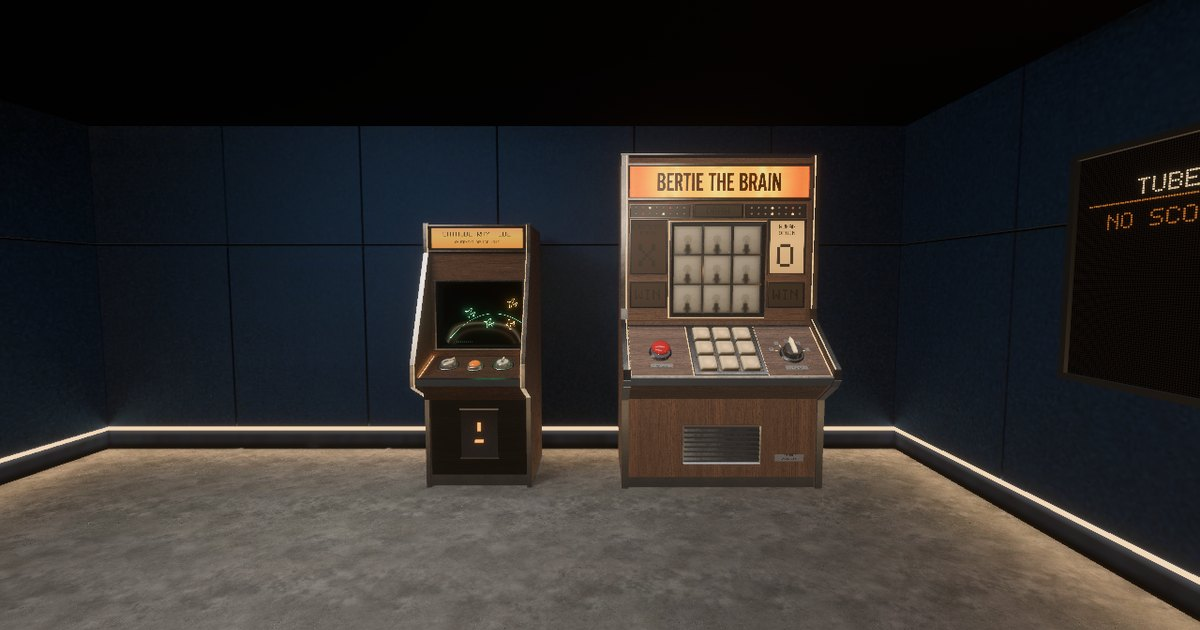
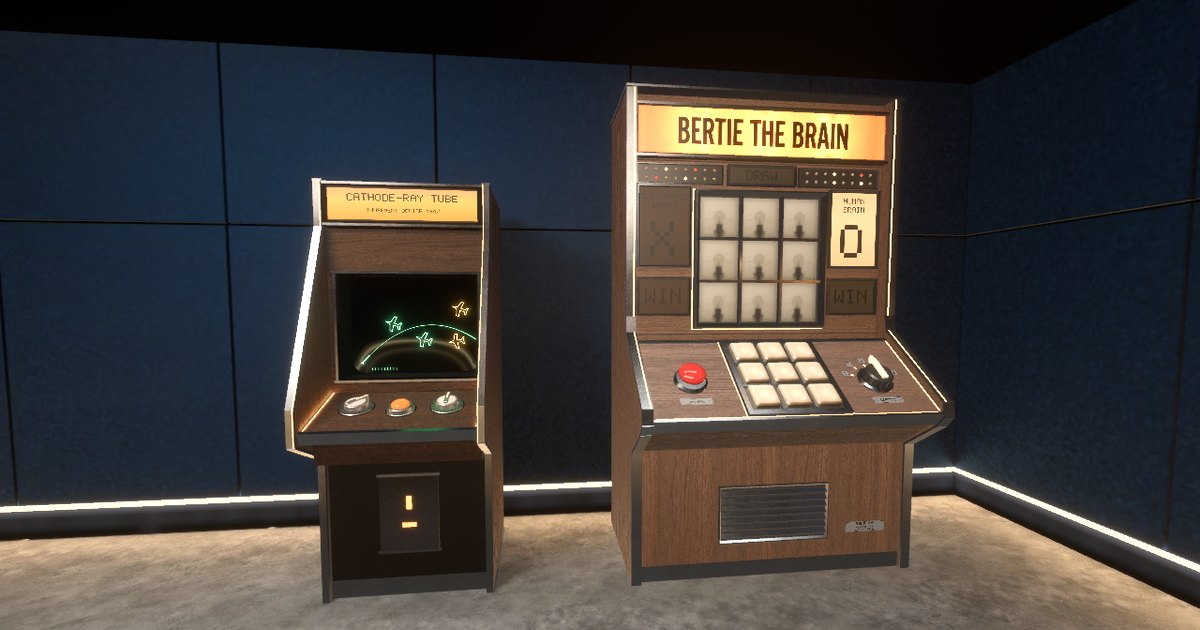
Arcade: document high scores; reframed card

diff --git a/demos/_src/arcade-bevy/README.md b/demos/_src/arcade-bevy/README.md
@@ -66,6 +66,13 @@ The game finds these parts by name and gives them behaviour in `src/cabinet.rs`:
 The room's light is baked in Blender with Cycles: two lightmaps on a second UV set, two occlusion maps, and a small cube picture of the room (`assets/env.bin`, compiled into the game) that steel, glass and the floor reflect. The only live lights are the tube's and one spot for sheen. `LOOK_NOTES.md` has the method, commands and timings.
 `src/room.rs` mends one line of a Bevy 0.20.1 shader at startup: without it, lightmaps and the reflection together fail to compile on WebGL2.
 
+## High scores
+
+Each game keeps a table of its best seven. `worker.js` is the site's Worker: it serves the built site and answers `/api/scores` (GET the tables, POST `{ game, name, score }`), keeping one KV key per game. `score_rules.js` holds the rules (names are up to eight capitals and digits; a game's highest allowed score), and `node --test worker.test.mjs` tests them.
+When a game ends, it hands its score to the page (`pad::score`). If the score makes the table, the page asks for a name once and remembers it for next time. The page also hands the tables back to the game, and `src/scores.rs` spells them out on a board of amber lamps on the right-hand wall.
+The tube's score is its hits in a game. Bertie's is a run of wins: each win adds the level of difficulty it was won at (1 to 5), and a loss, a draw or walking away ends the run.
+Nothing checks that a score was really played; the game runs in the visitor's browser.
+
 ## Controls that clunk
 
 The game puts no words on the screen. The score is marks on the tube: a tick per shell left, a pip per wave cleared. The page shows key prompts and touch buttons.

diff --git a/demos/_src/arcade-bevy/PROCESS.md b/demos/_src/arcade-bevy/PROCESS.md
@@ -86,6 +86,8 @@ The page plays recorded files. The game only says what happened.
 
 ## 8. Wire it into the room
 
+- Every machine has a high score. Decide what a score is in step 1 (the game exposes `take_ended()`); the engine side hands it over with `pad::score`. Add the game to `GAMES` in `score_rules.js` with its highest allowed score, and give it a column on the board in `src/scores.rs`.
+- The machine's root carries a `player::Machine`: its seat, how much width must stay in view, and its footprint.
 - A plugin in `src/main.rs`. The machine spawns its model and wires the named nodes when the model is ready (see `wire_model` in `src/cabinet.rs`).
 - Stepping up, leaving and the seat camera go through `Focus` in `src/player.rs`.
 - The machine reports its state bits to the page (`pad_state`) so the page can offer the right buttons and prompts.
